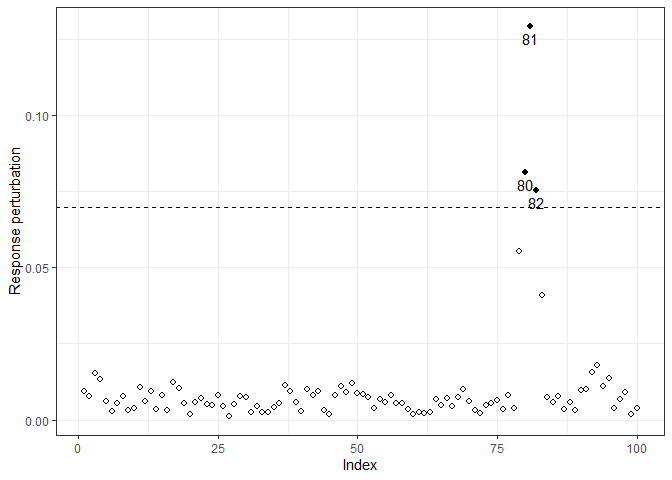
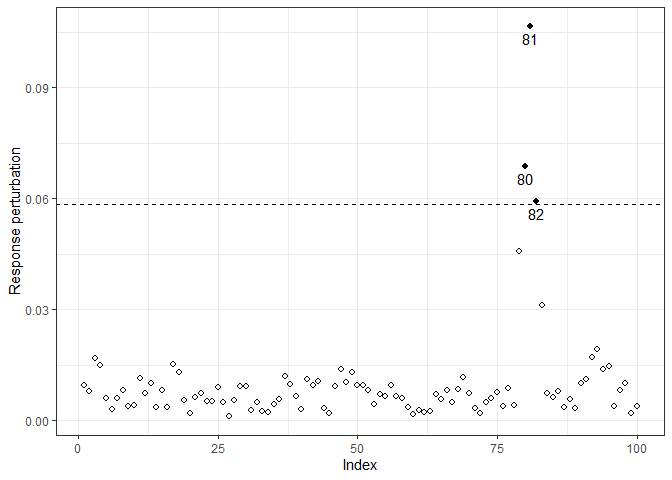
Correção no arquivo residuals.Rd e mudanças nas funções print e summary.

diff --git a/README.md b/README.md
@@ -115,42 +115,30 @@ and standard errors can be visualized through functions `summary` and
 
 ``` r
 summary(fit2)
-#> 
+#> ---------------------------------------------------
+#>   Censored Linear Regression Model with AR Errors 
+#> ---------------------------------------------------
 #> Call:
 #> ARCensReg(cc = dat$data$cc, lcl = dat$data$lcl, ucl = dat$data$ucl, 
 #>     y = dat$data$y, x = x, p = 2, pc = 0.15, quiet = TRUE)
 #> 
-#> ---------------------------------------------------
-#>   Censored Linear Regression Model with AR Errors 
-#> ---------------------------------------------------
-#> 
-#> ---------
-#> Estimates
-#> ---------
-#> 
+#> Estimated parameters:
 #>       beta0   beta1 sigma2   phi1    phi2
 #>      1.0830 -1.0965 0.4713 0.4690 -0.3883
 #> s.e. 0.1465  0.2389 0.0689 0.0949  0.0941
 #> 
-#> ------------------------
-#> Model selection criteria
-#> ------------------------
-#> 
+#> Model selection criteria:
 #>         Loglik     AIC     BIC AICcorr
 #> Value -105.279 220.558 233.583 221.196
 #> 
-#> -------
-#> Details
-#> -------
-#> 
-#> Type of censoring = left
-#> Number of missing values = 0
-#> Convergence reached? = TRUE
-#> Iterations = 168 / 400
-#> MC sample = 10
-#> Cut point = 0.15
-#> Processing time = 1.112404 mins
-#> 
+#> Details:
+#> Type of censoring: left 
+#> Number of missing values: 0 
+#> Convergence reached?: TRUE 
+#> Iterations: 168 / 400 
+#> MC sample: 10 
+#> Cut point: 0.15 
+#> Processing time: 58.53818 secs
 ```
 
 Moreover, for censored data, the convergence plot of the parameter
@@ -168,12 +156,12 @@ a censored linear regression model with Gaussian AR errors of order
 
 ``` r
 y2 = dat$data$y
-y2[81] = 7
+y2[81] = 6
 fit3 = ARCensReg(dat$data$cc, dat$data$lcl, dat$data$ucl, y2, x, p=2,
                  show_se=FALSE, quiet=TRUE)
 fit3$tab
 #>   beta0   beta1 sigma2   phi1    phi2
-#>  1.2021 -1.2527 0.8531 0.3426 -0.3061
+#>  1.1702 -1.2065 0.7237 0.3812 -0.3355
 ```
 
 It is worth noting that the parameter estimates were affected because of
@@ -185,9 +173,8 @@ observations 80 to 82 may be influential.
 
 ``` r
 M0y = InfDiag(fit3, k=3.5, perturbation="y")
-#> 
-#> Perturbation scheme: y
-#> Benchmark = 0.07
+#> Perturbation scheme: y 
+#> Benchmark: 0.059 
 #> Detected points: 80 81 82
 plot(M0y)
 ```
@@ -256,7 +243,7 @@ For comparison, we fit the same dataset considering the normal
 distribution (i.e., disregarding the heavy tails) and compute the
 corresponding quantile residuals. The resulting plots are given below,
 where we can see clear signs of non-normality, such as large residuals
-and several points outside the confidence band in the Q-Q plots.
+and some points outside the confidence band in the Q-Q plots.
 
 ``` r
 fit3 = ARCensReg(dat2$data$cc, dat2$data$lcl, dat2$data$ucl, dat2$data$y, x,
